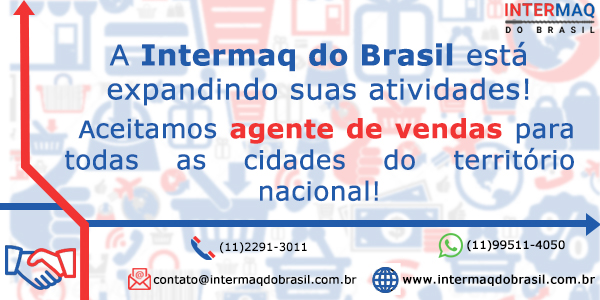
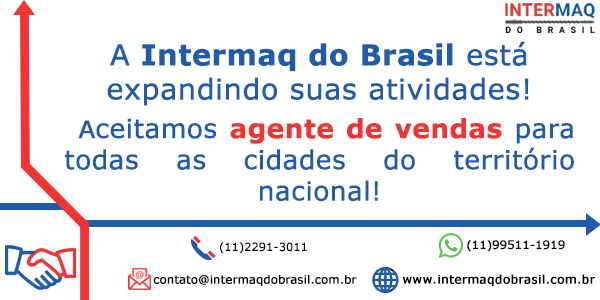
Mundancinhas

diff --git a/index.html b/index.html
@@ -152,11 +152,13 @@
   <div style="height: 200px;">
 
   </div>
+  <br>
+  <br>
 
   <!-- Primeeiro banner -->
   <div class="container-fluid">
     <div class="row justify-content-center">
-      <div class="banner col-lg-8">
+      <div class="banner ">
         <div id="carouselExampleControls" class="carousel slide" data-bs-ride="carousel" style="">
           <div class="carousel-inner response">
             <div class="carousel-item active">
@@ -191,6 +193,10 @@
     </div>
   </div>
 
+  <br>
+  <br>
+
+
 
   <!-- informações -->
   <section id='middle' class="container-fluid">
@@ -224,8 +230,8 @@
         </div>
 
       </div>
-      <div class="col-lg-6 ">
-        <iframe width="560" height="315" src="https://www.youtube.com/embed/7jDOdpt-szo" title="YouTube video player"
+      <div class="col-lg-5 ">
+        <iframe width="100%" height="100%" src="https://www.youtube.com/embed/7jDOdpt-szo" title="YouTube video player"
           frameborder="0"
           allow="accelerometer; autoplay; clipboard-write; encrypted-media; gyroscope; picture-in-picture"
           allowfullscreen></iframe>
@@ -403,7 +409,7 @@
               <div class="imgBox">
                 <img src="./Assets/Produtos/Moto redutor.jpg" alt="" />
               </div>
-              <h3 class="nome-produto">Moto Redutor</h3>
+              <h3 class="nome-produto"> Moto Redutor </h3>
             </div>
           </a>
 
@@ -416,7 +422,7 @@
                 <img src="./Assets/Produtos/Rdutor - dupla rosca.jpg" alt="" />
 
               </div>
-              <h3 class="nome-produto">Redutor - Dupla Rosca</h3>
+              <h3 class="nome-produto">Redutor - Dupla Rosca </h3>
             </div>
           </a>
 
@@ -428,7 +434,7 @@
               <div class="imgBox">
                 <img src="./Assets/Produtos/Redutor monorosca.jpg" alt="" />
               </div>
-              <h3 class="nome-produto">Redutor - Mono rosca</h3>
+              <h3 class="nome-produto">Redutor - Mono rosca </h3>
             </div>
           </a>
 
@@ -564,7 +570,7 @@
         <div class="redes-sociais-container">
           <a href="https://api.whatsapp.com/send?phone=5511995114050">
             <img class="redes-sociais" src="./Assets/img/Whats.png" alt="" />
-            <p>(11)99511-4050</p>
+            <p>(11)94110-1919</p>
           </a>
         </div>
         <div class="redes-sociais-container">

diff --git a/view/contato.html b/view/contato.html
@@ -246,14 +246,14 @@
       <a href="https://api.whatsapp.com/send?phone=5511932492230">
         <div class="numero">
           <img src="../Assets/img/Whats.png" alt="">
-          <p> +55(11)93249-2230</p>
+          <p> +55(11)94110-1919</p>
         </div>
       </a>
 
       <a href="https://api.whatsapp.com/send?phone=5511995114050">
         <div class="numero">
           <img src="../Assets/img/Whats.png" alt="">
-          <p> +55(11)99511-4050</p>
+          <p> +55(11)95052-2212</p>
         </div>
       </a>
 
@@ -296,7 +296,7 @@
         <div class="redes-sociais-container">
           <a href="https://api.whatsapp.com/send?phone=5511995114050">
             <img class="redes-sociais" src="../Assets/img/Whats.png" alt="" />
-            <p>(11)99511-4050</p>
+            <p>(11)94110-1919</p>
           </a>
         </div>
         <div class="redes-sociais-container">

diff --git a/view/produtos/motoRedutor.html b/view/produtos/motoRedutor.html
@@ -275,7 +275,7 @@
                 <div class="redes-sociais-container">
                     <a href="https://api.whatsapp.com/send?phone=5511995114050">
                         <img class="redes-sociais" src="../../Assets/img/Whats.png" alt="" />
-                        <p>(11)99511-4050</p>
+                        <p>(11)94110-1919</p>
                     </a>
                 </div>
                 <div class="redes-sociais-container">

diff --git a/view/produtos/redutoMonoRosca.html b/view/produtos/redutoMonoRosca.html
@@ -322,7 +322,7 @@
                 <div class="redes-sociais-container">
                     <a href="https://api.whatsapp.com/send?phone=5511995114050">
                         <img class="redes-sociais" src="../../Assets/img/Whats.png" alt="" />
-                        <p>(11)99511-4050</p>
+                        <p>(11)94110-1919</p>
                     </a>
                 </div>
                 <div class="redes-sociais-container">

diff --git a/view/produtos/redutorDuplaRosca.html b/view/produtos/redutorDuplaRosca.html
@@ -289,7 +289,7 @@
                 <div class="redes-sociais-container">
                     <a href="https://api.whatsapp.com/send?phone=5511995114050">
                         <img class="redes-sociais" src="../../Assets/img/Whats.png" alt="" />
-                        <p>(11)99511-4050</p>
+                        <p>(11)94110-1919</p>
                     </a>
                 </div>
                 <div class="redes-sociais-container">

diff --git a/view/produtos/roscaCanhaoDuplaRosca.html b/view/produtos/roscaCanhaoDuplaRosca.html
@@ -295,7 +295,7 @@
                 <div class="redes-sociais-container">
                     <a href="https://api.whatsapp.com/send?phone=5511995114050">
                         <img class="redes-sociais" src="../../Assets/img/Whats.png" alt="" />
-                        <p>(11)99511-4050</p>
+                        <p>(11)94110-1919</p>
                     </a>
                 </div>
                 <div class="redes-sociais-container">

diff --git a/view/produtos/roscaCanhaoMonoRosca.html b/view/produtos/roscaCanhaoMonoRosca.html
@@ -276,7 +276,7 @@
                 <div class="redes-sociais-container">
                     <a href="https://api.whatsapp.com/send?phone=5511995114050">
                         <img class="redes-sociais" src="../../Assets/img/Whats.png" alt="" />
-                        <p>(11)99511-4050</p>
+                        <p>(11)94110-1919</p>
                     </a>
                 </div>
                 <div class="redes-sociais-container">

diff --git a/view/produtos/slitSealer.html b/view/produtos/slitSealer.html
@@ -266,7 +266,7 @@
                 <div class="redes-sociais-container">
                     <a href="https://api.whatsapp.com/send?phone=5511995114050">
                         <img class="redes-sociais" src="../../Assets/img/Whats.png" alt="" />
-                        <p>(11)99511-4050</p>
+                        <p>(11)94110-1919</p>
                     </a>
                 </div>
                 <div class="redes-sociais-container">

diff --git a/view/produtos/ventoinhaResfriar.html b/view/produtos/ventoinhaResfriar.html
@@ -318,7 +318,7 @@
                 <div class="redes-sociais-container">
                     <a href="https://api.whatsapp.com/send?phone=5511995114050">
                         <img class="redes-sociais" src="../../Assets/img/Whats.png" alt="" />
-                        <p>(11)99511-4050</p>
+                        <p>(11)94110-1919</p>
                     </a>
                 </div>
                 <div class="redes-sociais-container">

diff --git a/view/produtos/ventoinhaUmidade.html b/view/produtos/ventoinhaUmidade.html
@@ -271,7 +271,7 @@
                 <div class="redes-sociais-container">
                     <a href="https://api.whatsapp.com/send?phone=5511995114050">
                         <img class="redes-sociais" src="../../Assets/img/Whats.png" alt="" />
-                        <p>(11)99511-4050</p>
+                        <p>(11)94110-1919</p>
                     </a>
                 </div>
                 <div class="redes-sociais-container">

diff --git a/Style/Index/banner.css b/Style/Index/banner.css
@@ -1,6 +1,6 @@
 .carousel-item img{
-  max-height: 420px;
-  max-width: 1300px;
+  max-height: 520px;
+  
 }
 .carousel-item{
  align-items: center;
@@ -10,7 +10,16 @@
   margin: 0 auto;
   
 }
-
+.banner .carousel-control-prev{
+    background: #215aaa55;
+    width: 100px;
+   
+}
+.banner .carousel-control-next{
+    background: #215aaa55;
+    width: 100px;
+   
+}
 
 @media(max-width:1000px){
   .carousel-inner{

diff --git a/view/produtos/secadora.html b/view/produtos/secadora.html
@@ -268,7 +268,7 @@
         <div class="redes-sociais-container">
           <a href="https://api.whatsapp.com/send?phone=5511995114050">
             <img class="redes-sociais" src="../../Assets/img/Whats.png" alt="" />
-            <p>(11)99511-4050</p>
+            <p>(11)94110-1919</p>
           </a>
         </div>
         <div class="redes-sociais-container">
